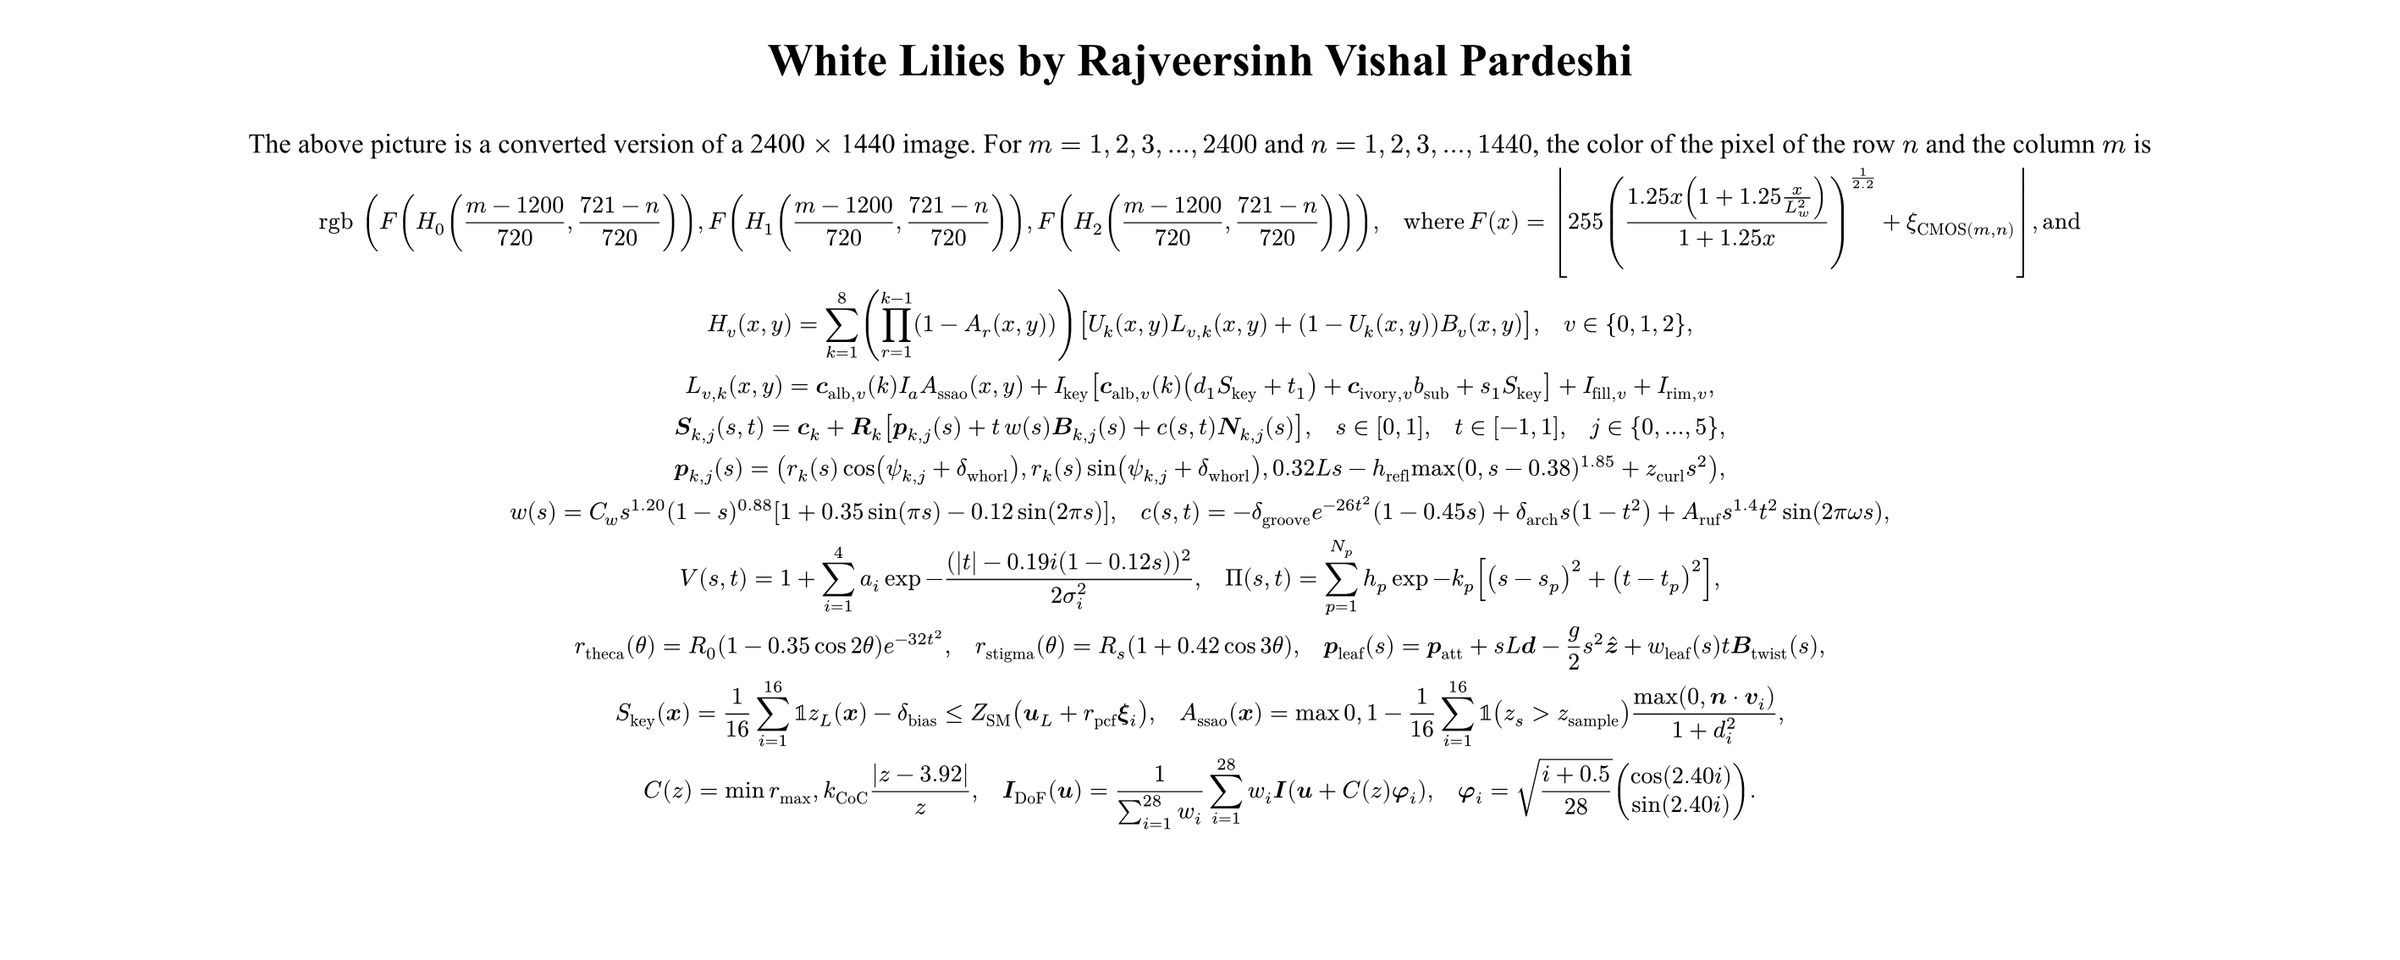
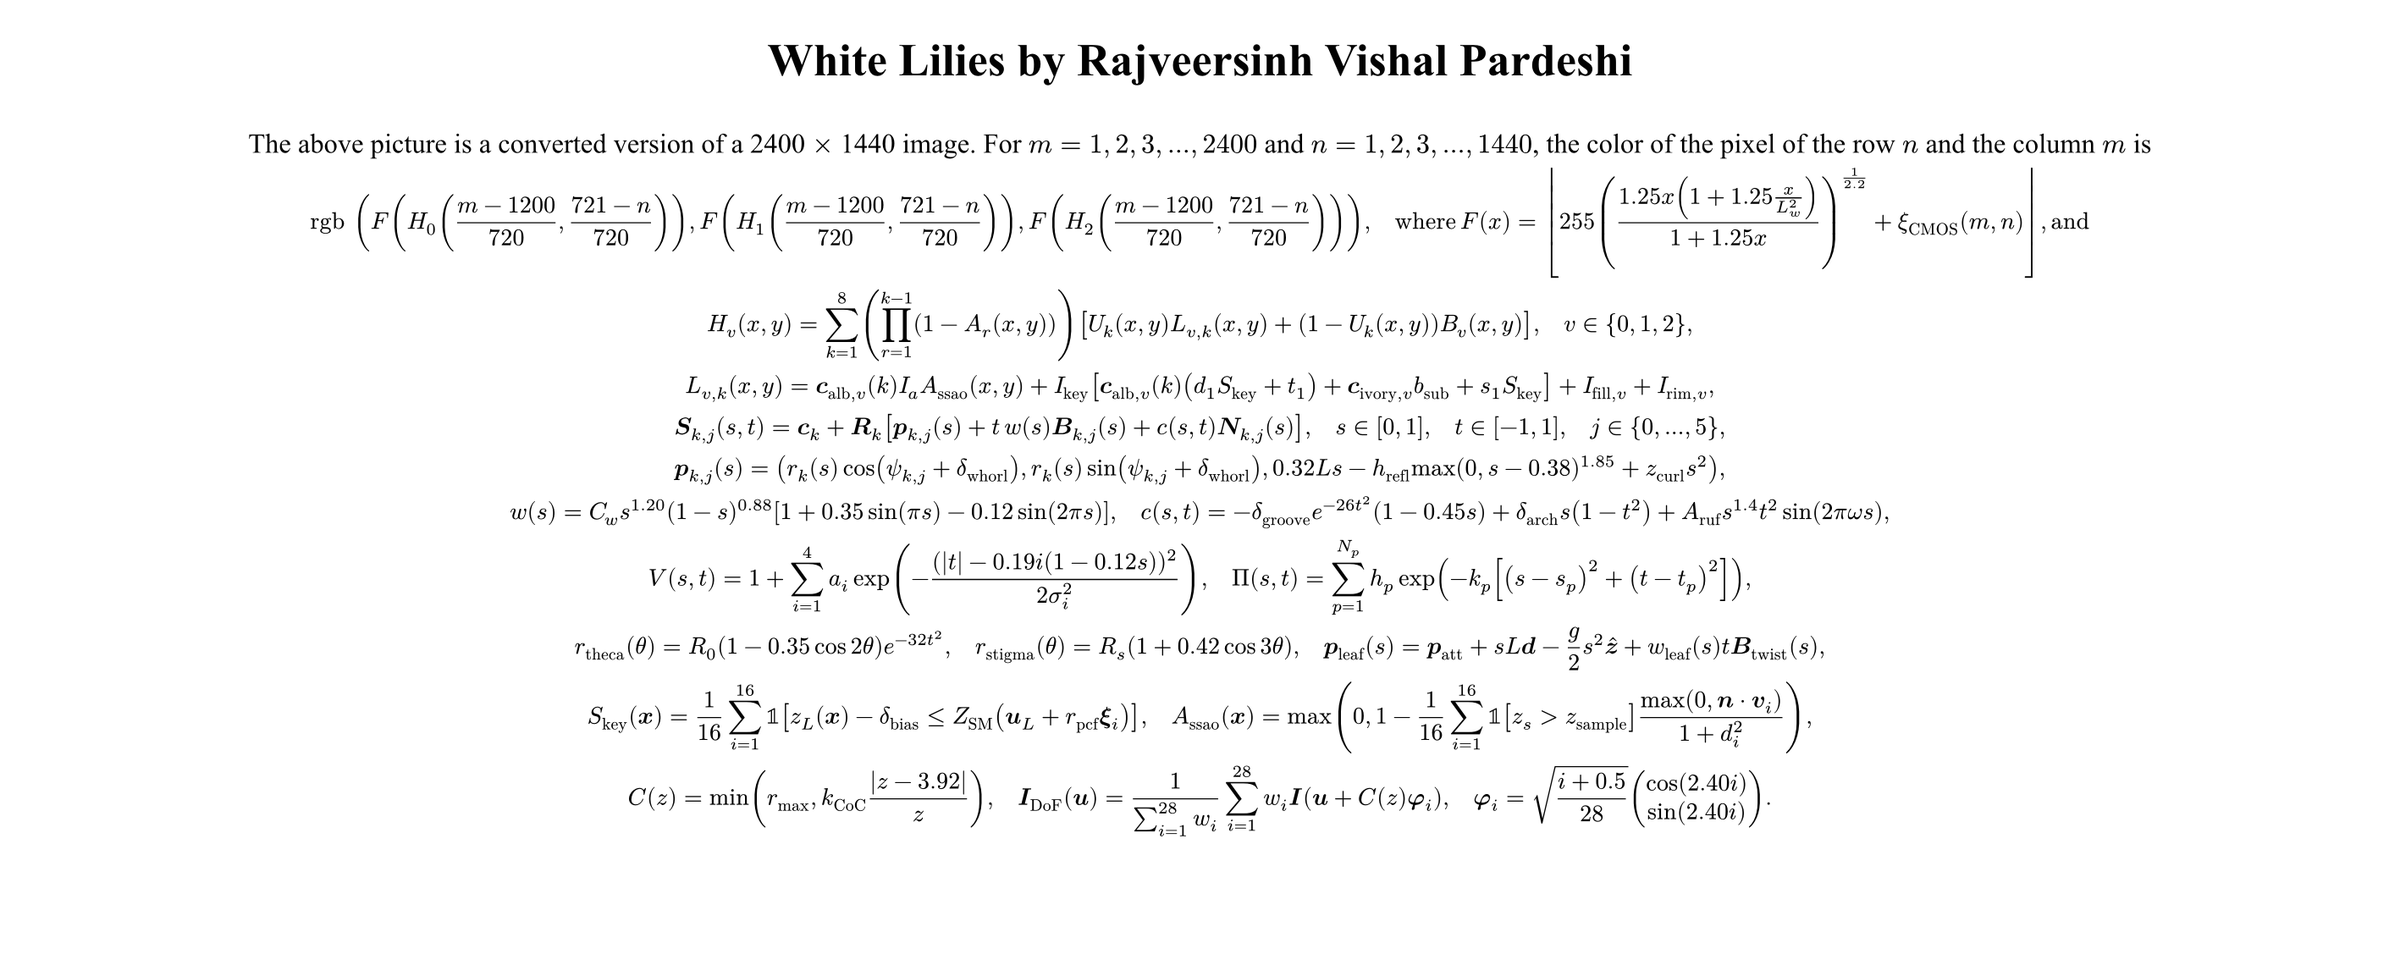
chore(equations): refine Typst delimiter formatting and recompile master panel

diff --git a/src/math_spec.py b/src/math_spec.py
@@ -74,7 +74,7 @@ def generate_typst_panel_markup() -> str:
 
 #v(1.0pt)
 
-$ "rgb" lr(( F lr(( H_0 lr(( frac(m - 1200, 720), frac(721 - n, 720) )) )), thin F lr(( H_1 lr(( frac(m - 1200, 720), frac(721 - n, 720) )) )), thin F lr(( H_2 lr(( frac(m - 1200, 720), frac(721 - n, 720) )) )) )), quad "where" thin F(x) = lr(floor.l 255 lr(( frac(1.25 x (1 + 1.25 x / L_w^2), 1 + 1.25 x) ))^(1 / 2.2) + xi_"CMOS"(m, n) floor.r), "and" $
+$ "rgb" lr(( F lr(( H_0 lr(( frac(m - 1200, 720), frac(721 - n, 720) )) )), thin F lr(( H_1 lr(( frac(m - 1200, 720), frac(721 - n, 720) )) )), thin F lr(( H_2 lr(( frac(m - 1200, 720), frac(721 - n, 720) )) )) )), quad "where" thin F(x) = lr(floor.l 255 lr(( frac(1.25 x (1 + 1.25 x / L_w^2), 1 + 1.25 x) ))^(1 / 2.2) + xi_"CMOS" (m, n) floor.r), "and" $
 
 $ H_v (x, y) = sum_(k=1)^(8) lr(( product_(r=1)^(k-1) (1 - A_r (x, y)) )) lr([ U_k (x, y) L_(v, k) (x, y) + (1 - U_k (x, y)) B_v (x, y) ]), quad v in {0, 1, 2}, $
 
@@ -86,13 +86,13 @@ $ bold(p)_(k, j) (s) = lr(( r_k (s) cos(psi_(k, j) + delta_"whorl"), thin r_k (s
 
 $ w(s) = C_w s^(1.20) (1 - s)^(0.88) lr([ 1 + 0.35 sin(pi s) - 0.12 sin(2pi s) ]), quad c(s, t) = -delta_"groove" e^(-26 t^2) (1 - 0.45 s) + delta_"arch" s (1 - t^2) + A_"ruf" s^(1.4) t^2 sin(2pi omega s), $
 
-$ V(s, t) = 1 + sum_(i=1)^4 a_i exp lr( -frac((|t| - 0.19 i (1 - 0.12 s))^2, 2 sigma_i^2) ), quad Pi(s, t) = sum_(p=1)^(N_p) h_p exp lr( -k_p lr([ (s - s_p)^2 + (t - t_p)^2 ]) ), $
+$ V(s, t) = 1 + sum_(i=1)^4 a_i exp lr(( -frac((|t| - 0.19 i (1 - 0.12 s))^2, 2 sigma_i^2) )), quad Pi(s, t) = sum_(p=1)^(N_p) h_p exp lr(( -k_p lr([ (s - s_p)^2 + (t - t_p)^2 ]) )), $
 
 $ r_"theca" (theta) = R_0 (1 - 0.35 cos 2theta) e^(-32 t^2), quad r_"stigma" (theta) = R_s (1 + 0.42 cos 3theta), quad bold(p)_"leaf" (s) = bold(p)_"att" + s L bold(d) - frac(g, 2) s^2 bold(hat(z)) + w_"leaf" (s) t bold(B)_"twist" (s), $
 
-$ S_"key" (bold(x)) = frac(1, 16) sum_(i=1)^(16) bb(1) lr( z_L (bold(x)) - delta_"bias" <= Z_"SM" (bold(u)_L + r_"pcf" bold(xi)_i) ), quad A_"ssao" (bold(x)) = max lr( 0, 1 - frac(1, 16) sum_(i=1)^(16) bb(1)(z_s > z_"sample") frac(max(0, bold(n) dot bold(v)_i), 1 + d_i^2) ), $
+$ S_"key" (bold(x)) = frac(1, 16) sum_(i=1)^(16) bb(1) lr([ z_L (bold(x)) - delta_"bias" <= Z_"SM" (bold(u)_L + r_"pcf" bold(xi)_i) ]), quad A_"ssao" (bold(x)) = max lr(( 0, 1 - frac(1, 16) sum_(i=1)^(16) bb(1) lr([ z_s > z_"sample" ]) frac(max(0, bold(n) dot bold(v)_i), 1 + d_i^2) )), $
 
-$ C(z) = min lr( r_max, k_"CoC" frac(|z - 3.92|, z) ), quad bold(I)_"DoF" (bold(u)) = frac(1, sum_(i=1)^(28) w_i) sum_(i=1)^(28) w_i bold(I) lr(( bold(u) + C(z) bold(phi)_i )), quad bold(phi)_i = sqrt(frac(i + 0.5, 28)) mat(cos(2.40 i); sin(2.40 i)). $
+$ C(z) = min lr(( r_max, k_"CoC" frac(|z - 3.92|, z) )), quad bold(I)_"DoF" (bold(u)) = frac(1, sum_(i=1)^(28) w_i) sum_(i=1)^(28) w_i bold(I) lr(( bold(u) + C(z) bold(phi)_i )), quad bold(phi)_i = sqrt(frac(i + 0.5, 28)) mat(cos(2.40 i); sin(2.40 i)). $
 """
 
 
